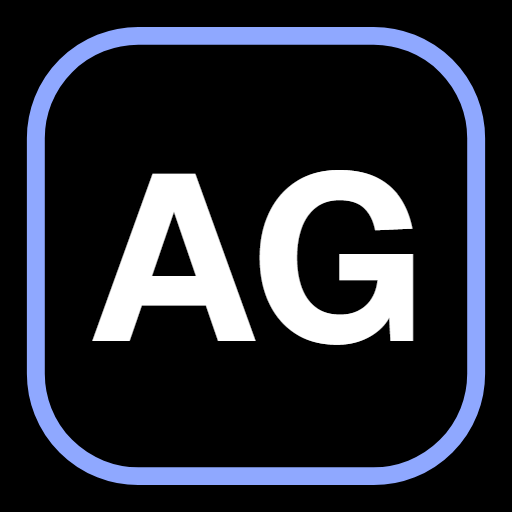
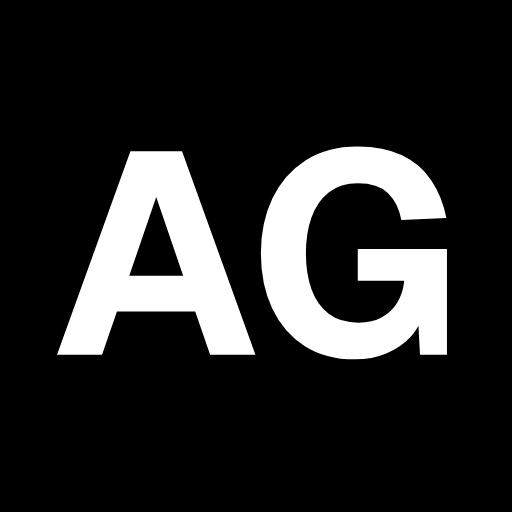
tooling(billboard): try a photo on the board by pressing a number
Looking at a photograph in a viewer does not tell you how it reads
at 380 pixels, behind a lit frame, in a black town. So 1 to 5 puts
each candidate on the hoarding and 5 is the one the site ships,
with a list in the corner saying which is which.

A comparison tool rather than a feature, and it knows it: the key
handler is only registered on localhost, so nothing responds to a
keypress on the live site, and the loader is handed one url there
instead of five - the four candidates are never even fetched. While
picking it takes all five at once, because loading on demand would
suspend the canvas and blank the town on every switch.

The favicon loses its ring. It was costing two of the sixteen
pixels a tab gives you and spending them on a border rather than on
the only part of the mark anybody can read at that size. Just the
letters now, and ?v=3 so the cached one with the ring is replaced.

diff --git a/src/lib/photoPick.js b/src/lib/photoPick.js
@@ -1,0 +1,65 @@
+import { useSyncExternalStore } from "react";
+import { profile } from "../data/profile";
+
+/**
+ * Try a photo on the hoarding without rebuilding anything.
+ *
+ * A comparison tool, not a feature. Press 1 to 5 and the portrait on
+ * the board changes; 5 is the one the site actually ships. Seeing a
+ * picture at the size it will really be, behind a lit frame, in a
+ * black town, settles an argument that no amount of looking at the
+ * file in a viewer will.
+ *
+ * Only on a machine you are developing on. The key handler is not
+ * registered anywhere else, so a stranger pressing 2 on the live
+ * site changes nothing - and the four candidates are not even
+ * fetched there, because the loader is handed one url instead of
+ * five.
+ */
+export const PICKING =
+  typeof window !== "undefined" &&
+  (window.location.hostname === "localhost" ||
+    window.location.hostname === "127.0.0.1");
+
+/** In the order they are keyed. The last is what the site ships. */
+export const PICKS = [
+  { key: 1, src: "/try/1.png", note: "yellow, hair right" },
+  { key: 2, src: "/try/2.png", note: "blue, hair right" },
+  { key: 3, src: "/try/3.png", note: "blue, hair left" },
+  { key: 4, src: "/try/4.png", note: "yellow, hair left" },
+  { key: 5, src: profile.photo, note: "current" },
+];
+
+const LIVE = PICKS.length - 1;
+
+let pick = LIVE;
+const subs = new Set();
+
+if (PICKING) {
+  window.addEventListener("keydown", (e) => {
+    if (e.metaKey || e.ctrlKey || e.altKey) return;
+    // Not while somebody is typing into something.
+    const t = e.target;
+    if (
+      t instanceof HTMLElement &&
+      (t.isContentEditable || t.tagName === "INPUT" || t.tagName === "TEXTAREA")
+    ) {
+      return;
+    }
+    const n = Number(e.key);
+    if (!Number.isInteger(n) || n < 1 || n > PICKS.length) return;
+    if (n - 1 === pick) return;
+    pick = n - 1;
+    subs.forEach((fn) => fn());
+  });
+}
+
+export const usePick = () =>
+  useSyncExternalStore(
+    (fn) => {
+      subs.add(fn);
+      return () => subs.delete(fn);
+    },
+    () => pick,
+    () => LIVE,
+  );

diff --git a/src/scenes/town.jsx b/src/scenes/town.jsx
@@ -26,6 +26,7 @@ import {
   mailrail,
 } from "../lib/townGeometry";
 import { profile, socials } from "../data/profile";
+import { PICKING, PICKS, usePick } from "../lib/photoPick";
 import { ACCENT } from "../lib/townMaterials";
 import { makeTextTexture } from "../lib/canvasText";
 import { ExtrudedText } from "./street";
@@ -115,7 +116,16 @@ function Outline({ geo, color = ACCENT.blue, opacity = EDGE, angle = 18 }) {
  */
 export function Billboard({ mats, visible, board, face }) {
   const built = useBuilt(billboard);
-  const photo = useLoader(THREE.TextureLoader, profile.photo);
+  // All of the candidates at once while picking, so switching
+  // between them does not suspend the canvas and blank the town.
+  // One url otherwise, which is the only one that gets fetched.
+  const urls = useMemo(
+    () => (PICKING ? PICKS.map((o) => o.src) : [profile.photo]),
+    [],
+  );
+  const maps = useLoader(THREE.TextureLoader, urls);
+  const pick = usePick();
+  const photo = maps[Math.min(pick, maps.length - 1)];
   const gap = BOARD.pad;
   const textW = BOARD_TEXT;
 

diff --git a/src/components/PhotoPicker.jsx b/src/components/PhotoPicker.jsx
@@ -1,0 +1,23 @@
+import { PICKING, PICKS, usePick } from "../lib/photoPick";
+
+/**
+ * Says which portrait is on the board, and what the others are keyed
+ * to. Renders nowhere but a development machine - see `photoPick`.
+ */
+export default function PhotoPicker() {
+  const pick = usePick();
+  if (!PICKING) return null;
+
+  return (
+    <div className="pointer-events-none fixed bottom-4 left-4 z-40 rounded-lg border border-ink-700/80 bg-ink-950/80 px-3 py-2 font-mono text-[10px] uppercase tracking-[0.18em] backdrop-blur-md">
+      {PICKS.map((o, i) => (
+        <div
+          key={o.key}
+          className={i === pick ? "text-fg" : "text-fg-subtle/60"}
+        >
+          {o.key} {o.note}
+        </div>
+      ))}
+    </div>
+  );
+}

diff --git a/index.html b/index.html
@@ -6,8 +6,8 @@
     <!-- ?v=2 so a browser holding the old brown serif mark in its
          cache fetches this one instead of showing that for a beat
          and then swapping. Bump it whenever the icon changes. -->
-    <link rel="icon" type="image/png" href="/favicon.png?v=2" />
-    <link rel="apple-touch-icon" href="/apple-touch-icon.png?v=2" />
+    <link rel="icon" type="image/png" href="/favicon.png?v=3" />
+    <link rel="apple-touch-icon" href="/apple-touch-icon.png?v=3" />
 
     <title>Abhinav Gonthina's Website</title>
     <meta

diff --git a/src/App.jsx b/src/App.jsx
@@ -12,6 +12,7 @@ import Connect from "./sections/Connect";
 import { useSwitching } from "./lib/switchView";
 import { usePlain } from "./lib/plain";
 import { useReady } from "./lib/ready";
+import PhotoPicker from "./components/PhotoPicker";
 
 /**
  * The page is a walk through one town, and these are its stops in
@@ -62,6 +63,7 @@ export default function App() {
   return (
     <>
       <Navbar />
+      <PhotoPicker />
       <TownStage refs={refs} />
       <SectionTitle />
       <ScrollHint />
